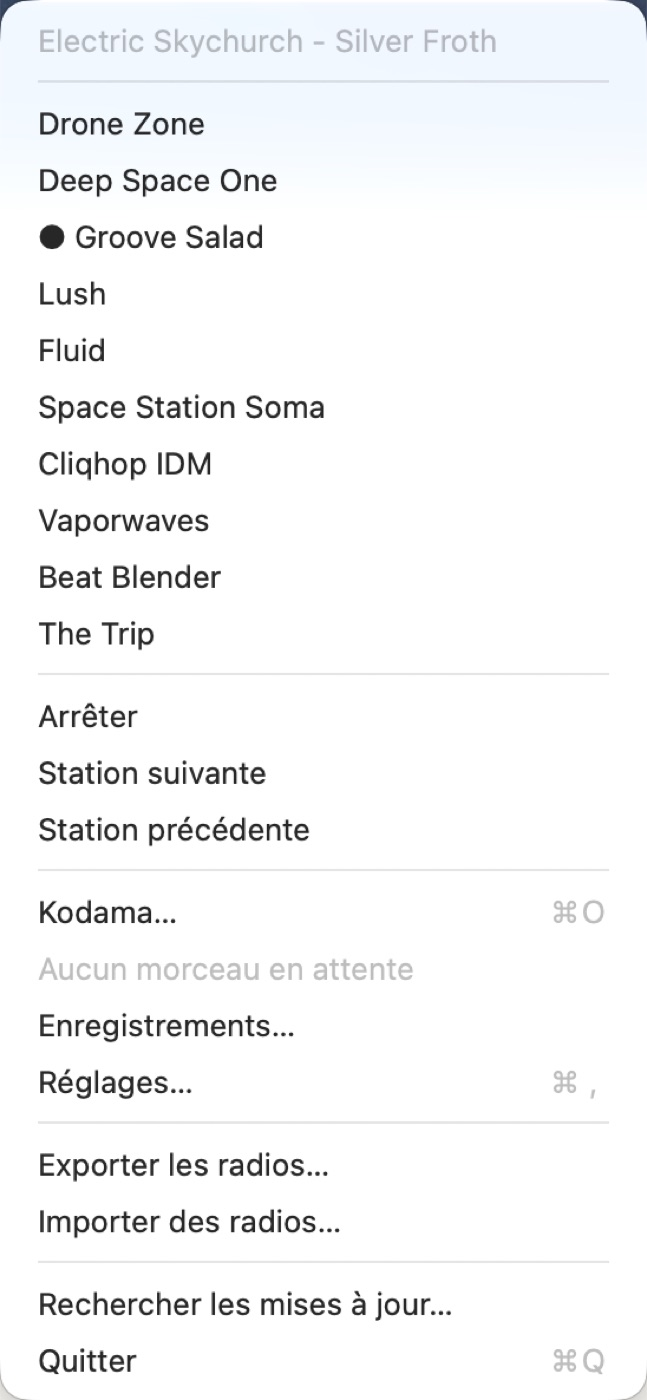
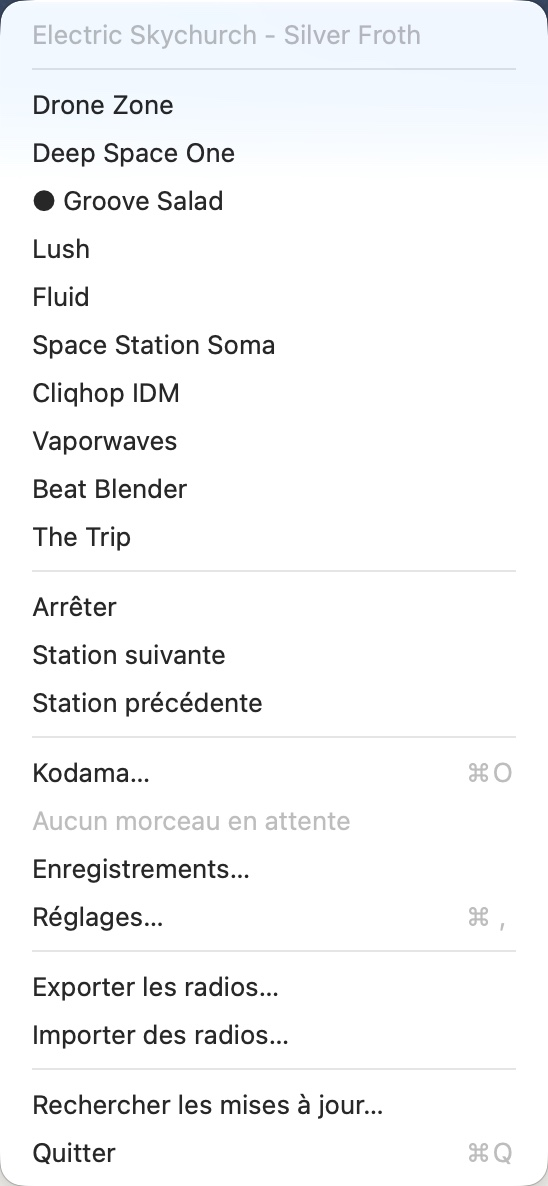
Les réglages en deux colonnes, le menu à sa taille
La capture des réglages tenait sur une bande deux fois et demie plus haute
que large. Coupée entre « Morceaux gardés » et « File d'attente », elle
s'affiche en deux colonnes qui s'empilent quand la place manque.

Le menu paraissait énorme pour une raison bête : il ne fait que 548 pixels
de large, et il était agrandi à 1400 avant d'être encore étiré à toute la
largeur de la page. Il garde désormais sa taille native et s'affiche
centré, à 300 pixels.

diff --git a/docs/index.html b/docs/index.html
@@ -70,7 +70,7 @@
 <section>
     <h2>Tout se pilote depuis la barre des menus</h2>
     <figure>
-        <img src="images/menulet.jpg" alt="Le menu de Kodama déroulé, montrant le titre en cours et la liste des stations">
+        <img class="etroite" src="images/menulet.jpg" alt="Le menu de Kodama déroulé, montrant le titre en cours et la liste des stations">
         <figcaption>Kodama n'occupe pas le Dock. Il attend dans la barre des menus.</figcaption>
     </figure>
 </section>
@@ -93,7 +93,10 @@
 <section>
     <h2>Ce que vous réglez</h2>
     <figure>
-        <img src="images/reglages.jpg" alt="Les réglages de Kodama : l'enregistrement, et les durées minimale et maximale de découpage">
+        <div class="deux-colonnes">
+            <img src="images/reglages-1.jpg" alt="Réglages de Kodama : enregistrement, découpage, dossier des morceaux gardés">
+            <img src="images/reglages-2.jpg" alt="Réglages de Kodama : file d'attente, notifications, agent réseau">
+        </div>
         <figcaption>En deçà de la durée minimale, c'est un jingle : le morceau est jeté.</figcaption>
     </figure>
     <p>

diff --git a/docs/style.css b/docs/style.css
@@ -104,3 +104,16 @@ nav.retour { padding-top: 28px; font-size: 15px; }
 
 /* Le compteur de téléchargements : présent, mais qui ne réclame pas l'attention. */
 .compteur { margin-top: 6px; opacity: .75; }
+
+/* Deux captures côte à côte, qui s'empilent quand la place manque. */
+.deux-colonnes {
+    display: grid; gap: 14px;
+    grid-template-columns: repeat(auto-fit, minmax(260px, 1fr));
+    align-items: start;
+}
+
+/* Une capture étroite — un menu, une palette — n'a rien à gagner à être
+   étirée sur toute la largeur : elle s'affiche à sa taille, centrée. */
+figure img.etroite {
+    max-width: 300px; margin: 0 auto;
+}
